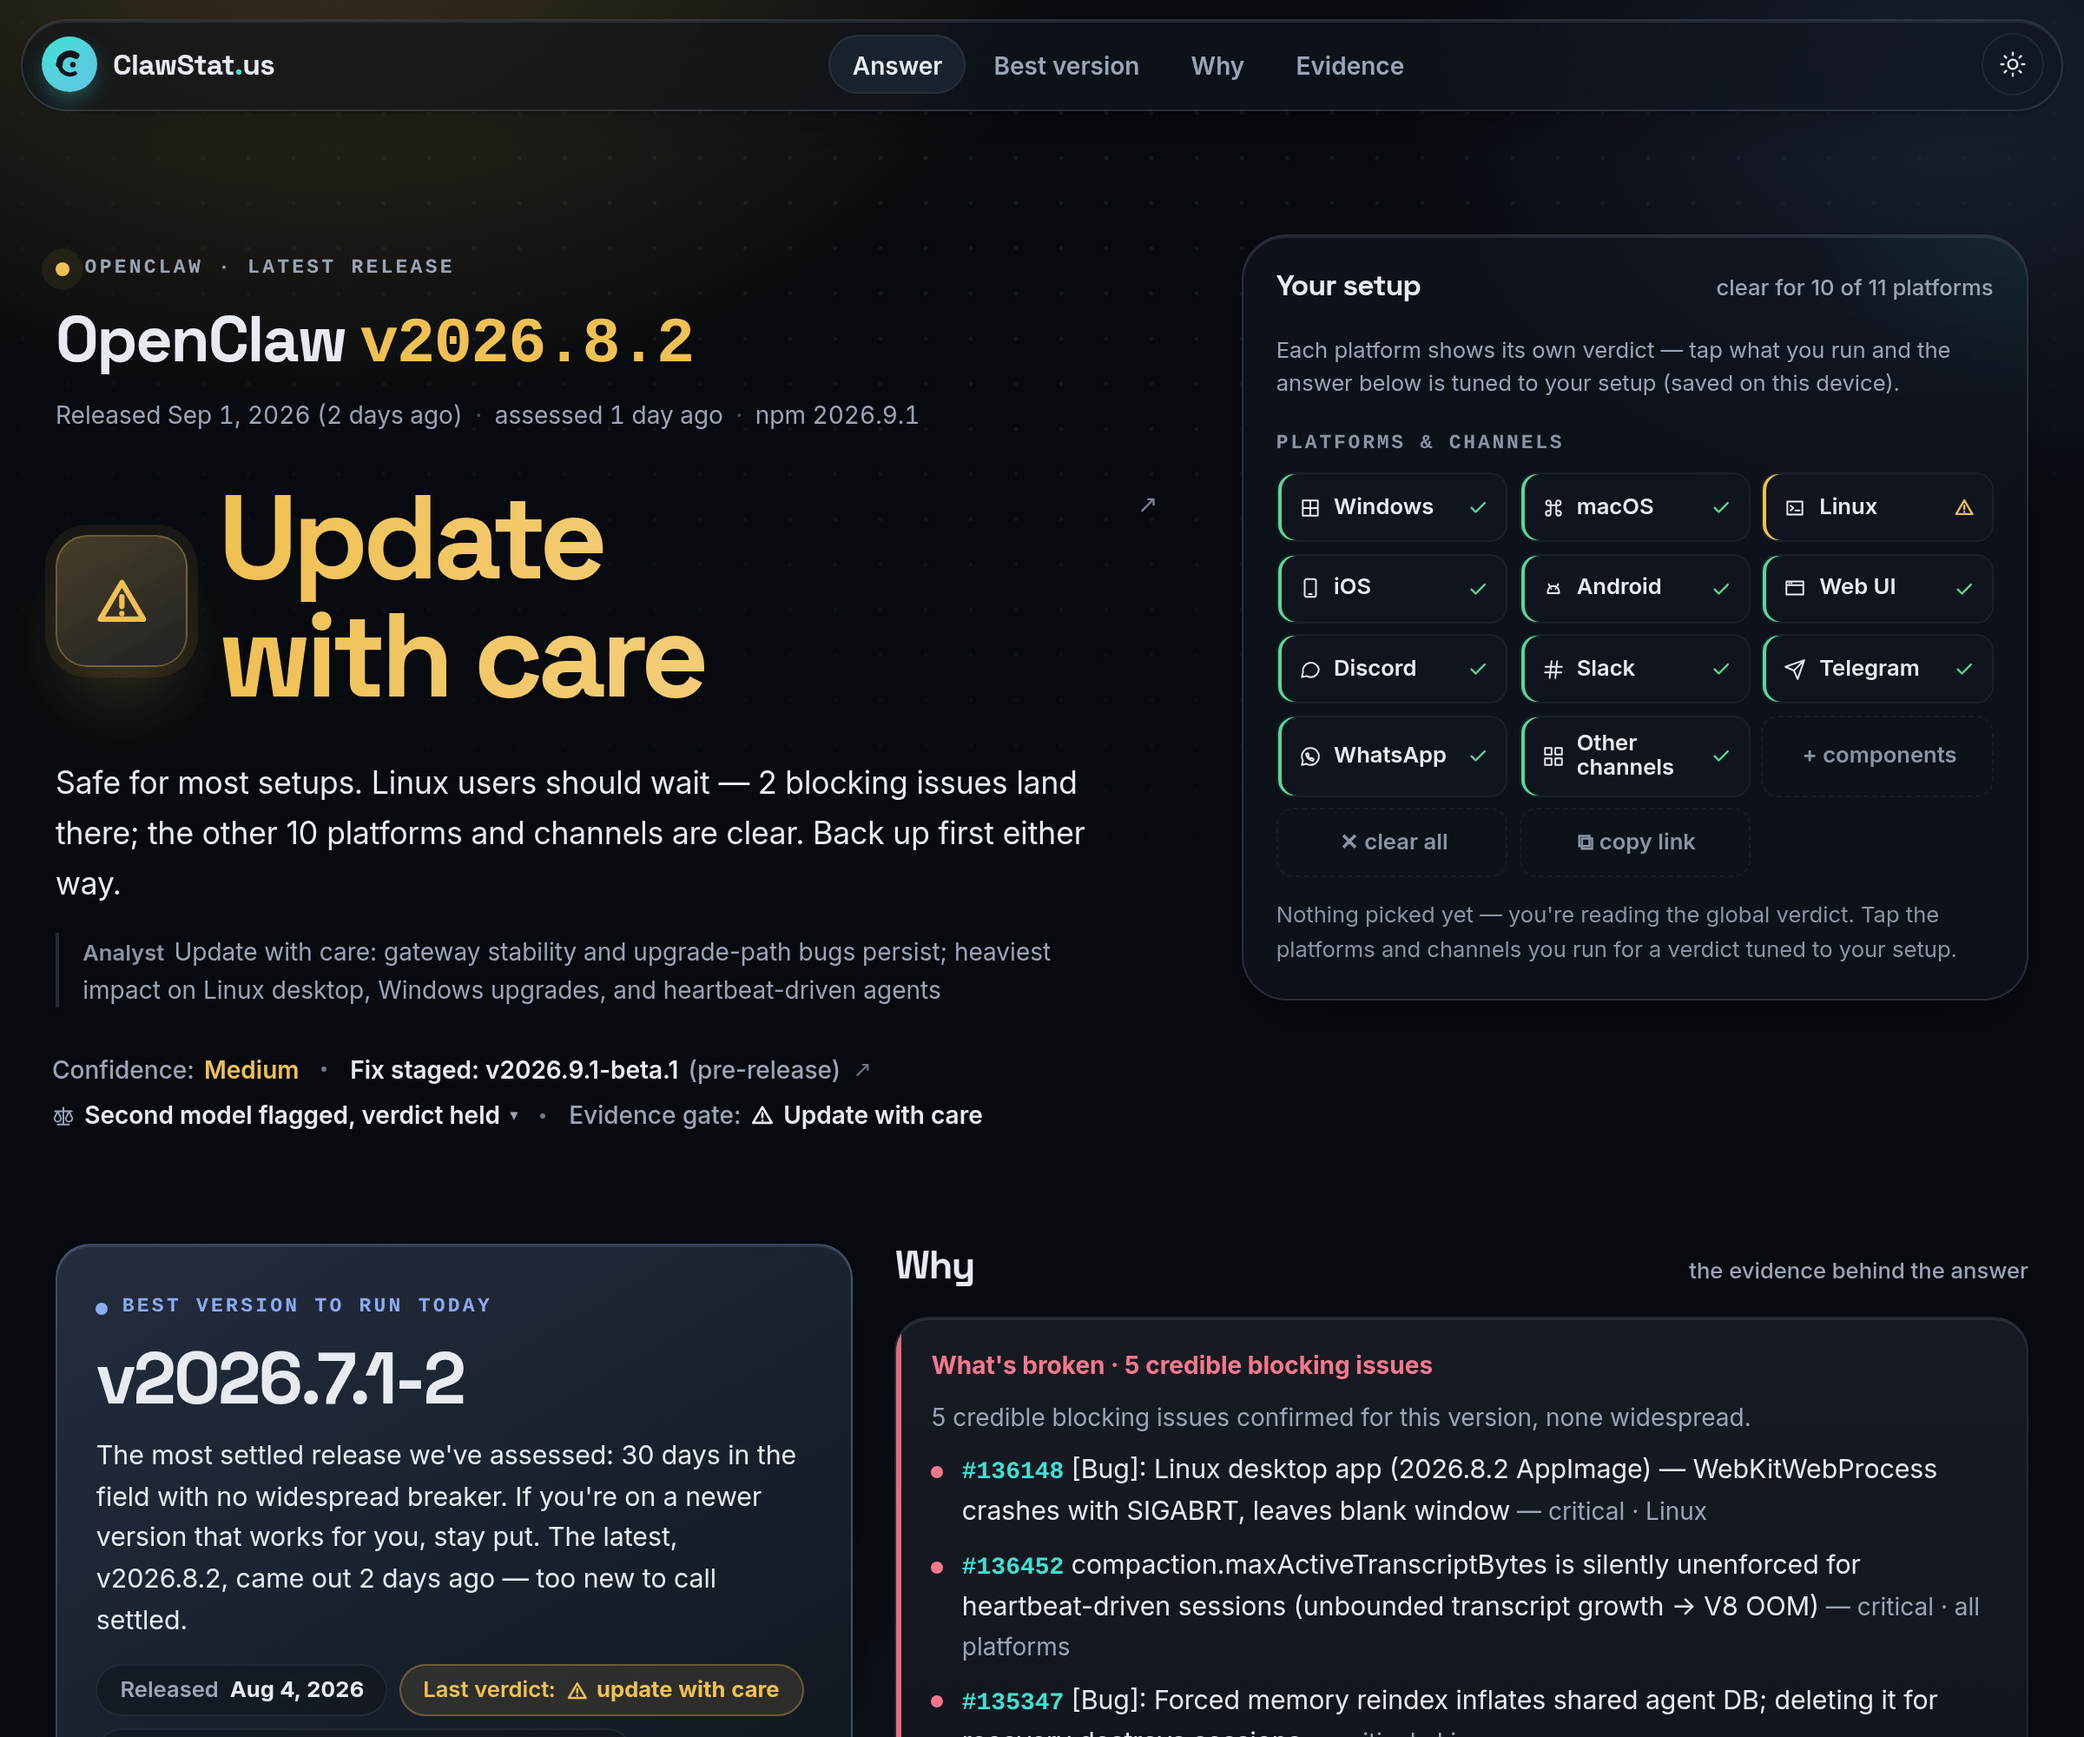
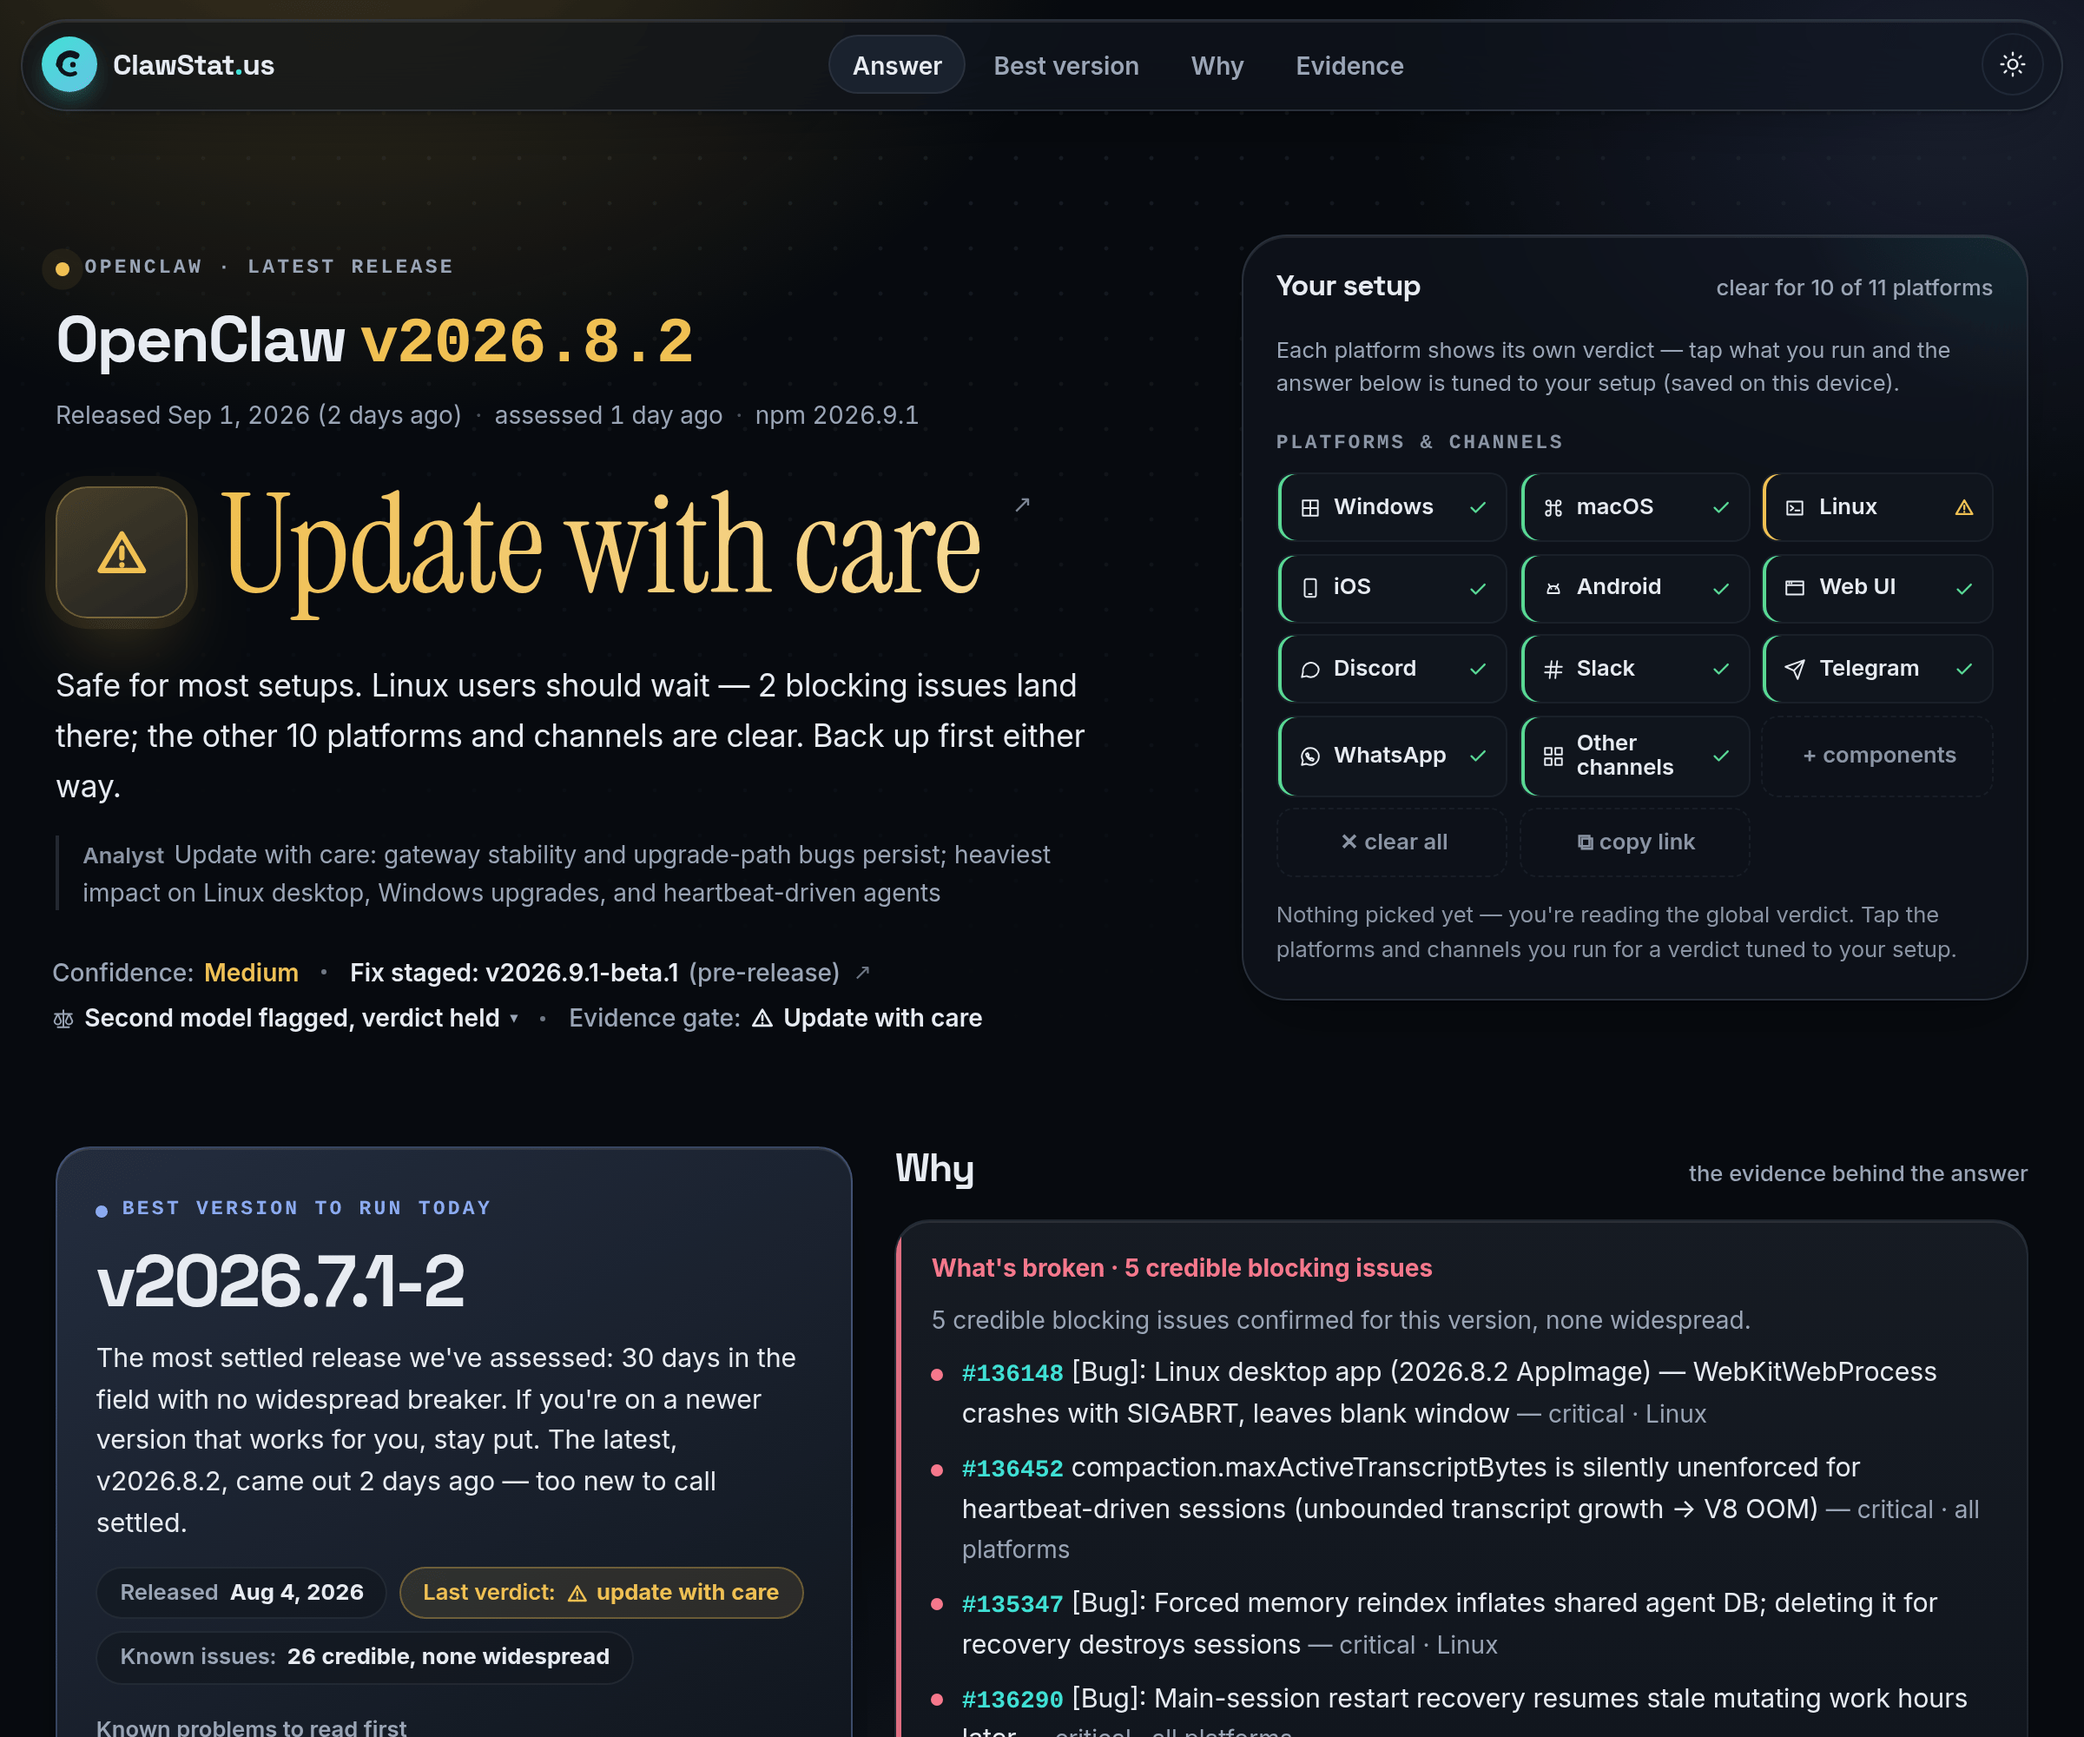
The status word is set in Instrument Serif — G1 decided (1.3.2)
The A/B from the type phase, resolved: "Safe to update", "Update with
care", "Skip this version" and "Too new to call" read in Instrument Serif
(regular, a 14 KB latin subset with its OFL text, preloaded because it is
the first thing anyone reads) at 1.16× the display size so the word keeps
its line, against the grotesk everywhere else. A --status-face token;
nothing else on the page changes. Fonts total 99 KB (the budget moves to
100 KB with this decision). README heroes re-shot.

496 pytest / 31 per-setup / 56 page-ui / contrast green; template
unchanged in its script block (build --check passes).

Claude-Session: https://claude.ai/code/session_01SizQpRAkLfEZwzdb1zug89

Changed region(s): [[0.0, 0.279, 0.9375, 1.0], [0.8125, 0.651, 0.9688, 0.682], [0.9375, 0.713, 0.9688, 0.744]]

diff --git a/web/template.html b/web/template.html
@@ -10,6 +10,7 @@
 <link rel="icon" type="image/svg+xml" href="/logo.svg">
 <link rel="apple-touch-icon" href="/apple-touch-icon.png">
 <link rel="preload" href="fonts/Inter-var.woff2" as="font" type="font/woff2" crossorigin>
+<link rel="preload" href="fonts/InstrumentSerif.woff2" as="font" type="font/woff2" crossorigin>
 <title>ClawStat.us — Should you update OpenClaw?</title>
 <link rel="alternate" type="text/markdown" href="llms-full.txt" title="Full verdict as markdown (for LLMs / agents)">
 <link rel="alternate" type="application/json" href="latest.json" title="Assessment JSON API">
@@ -27,7 +28,9 @@
 /* Self-hosted fonts — no runtime CDN: the woff2 files ship next to the page
    (web/fonts/, OFL texts beside them), so the page stays offline/file:///CSP-safe.
    Text: Inter (variable, wght 400–800 + optical size, latin + core latin-ext, 63 KB).
-   Display: Space Grotesk (variable, latin, 22 KB) — the status word, versions, titles.
+   Display: Space Grotesk (variable, latin, 22 KB) — versions, titles, tiles.
+   Status word: Instrument Serif (static regular, latin, 14 KB) — the one editorial
+   voice on the page, preloaded because it is the first thing anyone reads.
    "Inter Fallback" is Arial (or a metric clone) re-proportioned to Inter with the
    size-adjust / ascent / descent overrides, so the swap from the fallback to the
    web font moves nothing on screen. */
@@ -45,6 +48,11 @@
   font-family:"Space Grotesk";
   font-style:normal; font-weight:300 700; font-display:swap;
   src:url(fonts/SpaceGrotesk-var.woff2) format("woff2");
+}
+@font-face{
+  font-family:"Instrument Serif";
+  font-style:normal; font-weight:400; font-display:swap;
+  src:url(fonts/InstrumentSerif.woff2) format("woff2");
 }
 
 :root{
@@ -75,6 +83,7 @@
      scale (2xs…lg) plus display clamps; line-height by role */
   --text-face:"Inter","Inter Fallback",ui-sans-serif,-apple-system,BlinkMacSystemFont,"Segoe UI",Roboto,Helvetica,Arial,sans-serif;
   --display-face:"Space Grotesk",var(--text-face);
+  --status-face:"Instrument Serif",Georgia,"Times New Roman",serif;
   --sans:var(--text-face); --display:var(--display-face);
   --mono:ui-monospace,"SFMono-Regular","SF Mono",Menlo,"JetBrains Mono",Consolas,monospace;
   --fs-2xs:.72rem; --fs-xs:.8rem; --fs-sm:.875rem; --fs-base:.95rem; --fs-md:1.05rem; --fs-lg:1.4rem;
@@ -264,10 +273,12 @@ html[data-theme="light"] .brand .logo{color:#fff}
   box-shadow:0 0 0 6px color-mix(in srgb,var(--tone) 8%,transparent), 0 24px 50px -22px color-mix(in srgb,var(--tone) 70%,transparent);
 }
 .verdict .answer-word{
-  font-family:var(--display); font-size:var(--fs-hero); font-weight:700; letter-spacing:-.045em; line-height:1;
+  /* the status word — the page's one editorial voice: Instrument Serif at 1.16× the display
+     size (its x-height is smaller), regular weight, a whisper of tightening */
+  font-family:var(--status-face); font-size:calc(var(--fs-hero) * 1.16); font-weight:400; letter-spacing:-.012em; line-height:.98;
   background:linear-gradient(94deg,var(--tone) 0%,color-mix(in srgb,var(--word-mix) var(--word-tail),var(--tone)) 100%);
   -webkit-background-clip:text; background-clip:text; color:transparent;
-  padding-bottom:.06em;   /* keep descenders inside the clipped box */
+  padding-bottom:.09em;   /* keep descenders inside the clipped box */
   text-wrap:balance;
 }
 a.verdict{cursor:pointer}

diff --git a/tools/subset_font.py b/tools/subset_font.py
@@ -33,6 +33,8 @@ font budget in the design plan before committing.
 Provenance of the committed subsets (source archives, not committed):
 - Space Grotesk — github.com/floriankarsten/space-grotesk (OFL), latin subset (pre-dates
   this tool).
+- Instrument Serif — github.com/google/fonts `ofl/instrumentserif/InstrumentSerif-Regular.ttf`
+  (OFL): `--ranges latin --features case` → 14 KB static; the status word only.
 - Inter 4.1 — github.com/rsms/inter/releases/tag/v4.1, `InterVariable.ttf` (OFL):
   `--ranges latin,latin-ext-core --wght 400:800 --features tnum,case` → 63 KB with the
   whole opsz axis (14–32). For the record, the same cut with Google's full latin-ext is

diff --git a/openclaw_status/config.py b/openclaw_status/config.py
@@ -18,7 +18,7 @@ WEB_DIR = ROOT / "web"
 # openclaw_status.__version__ (a test pins them equal); surfaced additively in
 # latest.json (`app_version`) and the page footer. Bump on release, then cut the
 # matching annotated git tag (e.g. `v1.0.0`) from this value.
-APP_VERSION = "1.3.1"
+APP_VERSION = "1.3.2"
 
 # ── .env ────────────────────────────────────────────────────────────────────
 load_dotenv(ROOT / ".env")

diff --git a/openclaw_status/__init__.py b/openclaw_status/__init__.py
@@ -6,4 +6,4 @@ Single package: collect → analyze → render → publish.
 # The app's own version (distinct from every "version" elsewhere in the code, which
 # refers to the assessed OpenClaw *product*). Kept in sync with config.APP_VERSION by
 # a test; bump on release and cut the matching annotated git tag from it.
-__version__ = "1.3.1"
+__version__ = "1.3.2"

diff --git a/CHANGELOG.md b/CHANGELOG.md
@@ -5,6 +5,15 @@ All notable changes to this project are documented in this file.
 The format is based on [Keep a Changelog](https://keepachangelog.com/en/1.1.0/),
 and this project aims to follow [Semantic Versioning](https://semver.org/spec/v2.0.0.html).
 
+## [1.3.2] - 2026-09-05
+
+### Changed
+- **The status word is set in Instrument Serif.** The A/B from the type phase, decided:
+  "Safe to update", "Update with care", "Skip this version" and "Too new to call" now read in
+  an editorial serif (Instrument Serif, regular, a 14 KB latin subset shipped with its OFL
+  text and preloaded), at 1.16× the display size so it holds the same line, against the
+  grotesk everywhere else. Nothing else on the page changes. README heroes re-shot.
+
 ## [1.3.1] - 2026-09-05
 
 ### Changed
